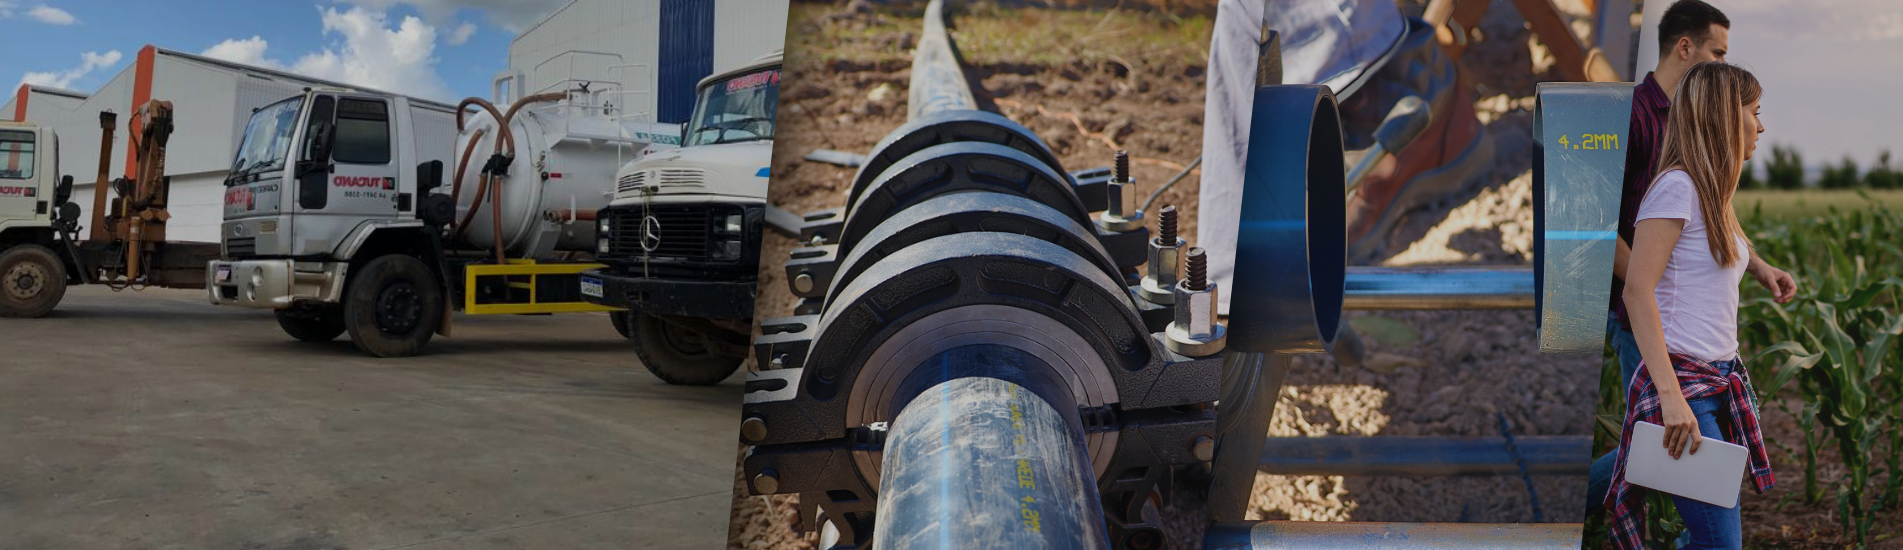
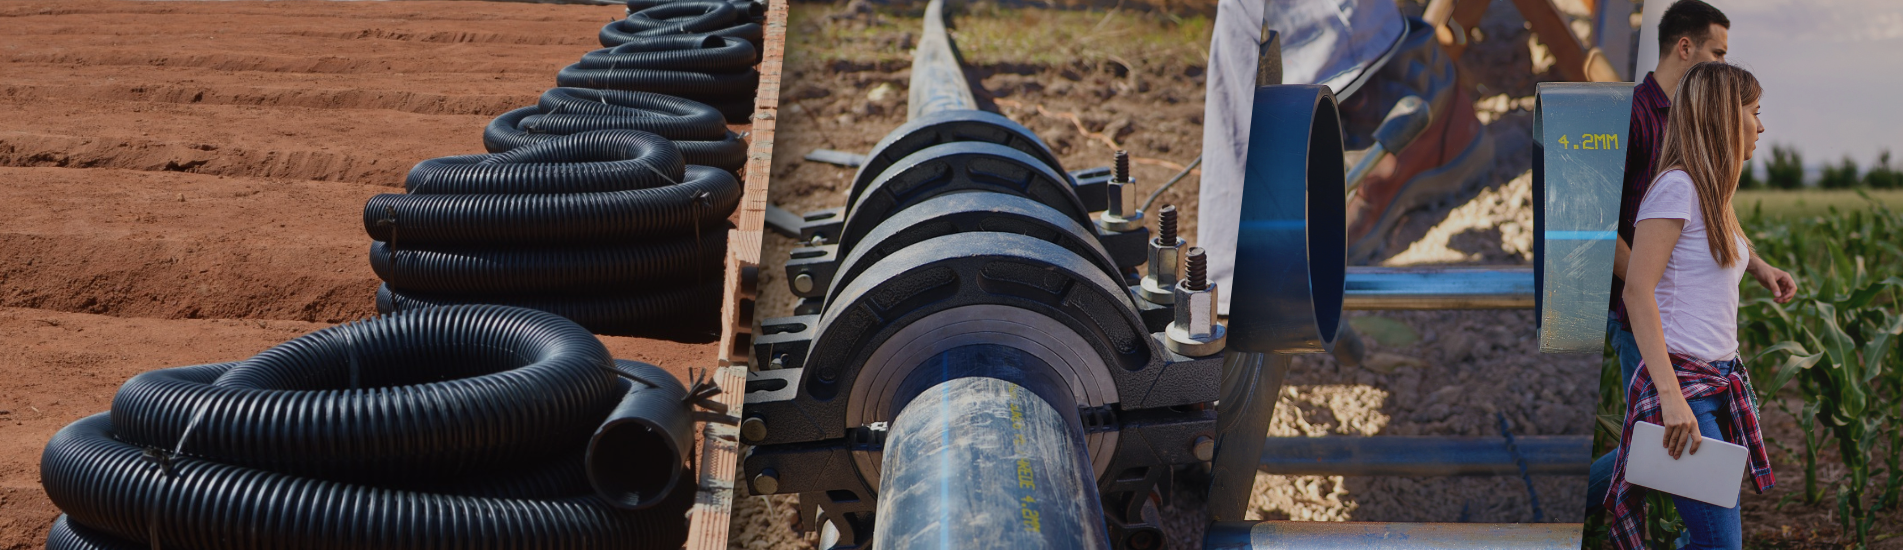
Atualizações Finalizadas.

diff --git a/src/app/servico/servico.component.html b/src/app/servico/servico.component.html
@@ -52,15 +52,26 @@
                 <p class="description2">
                     Acompanhamento na Obra.
                 </p>
-                <a target="_blank"
-                    href="https://api.whatsapp.com/send/?phone=5564992308541&text&type=phone_number&app_absent=0">
-                    <button class="botao-contrate2" type="button">CONTRATE</button>
-                </a>
+                <div class="solda-but-container">
+                    <a target="_blank"
+                        href="https://api.whatsapp.com/send/?phone=5564992308541&text&type=phone_number&app_absent=0">
+                        <button class="botao-contrate2" type="button">CONTRATE</button>
+                    </a>
+                    <div class="photo-gallery">
+                        <div class="photo" *ngFor="let photo of photosAcompanhamento" (click)="navigateToDetails(photo)">
+                            <img src="{{ photo.imageUrl }}" alt="{{ photo.caption }}">
+                            <!-- <div class="caption">{{ photo.caption }}</div> -->
+                            <div class="info-box" *ngIf="photo.showInfo">
+                                {{ photo.info }}
+                            </div>
+                        </div>
+                    </div>
+                </div>
             </div>
         </div>
     </mat-card>
 
-    <mat-card class="card-container">
+    <!-- <mat-card class="card-container">
         <div class="content-container">
             <div class="text-container">
                 <h2 class="title">Serviço de Limpa Fossa</h2>
@@ -101,11 +112,11 @@
             </div>
         </div>
     </mat-card>
-</div>
+</div> -->
 
-<div class="galery-open" *ngIf="imgClick">
-    <img src="{{ imgUrl }}">
-    <button mat-mini-fab color="warn" (click)="imgClick = false">
-        <mat-icon>close</mat-icon>
-    </button>
-</div>
+    <div class="galery-open" *ngIf="imgClick">
+        <img src="{{ imgUrl }}">
+        <button mat-mini-fab color="warn" (click)="imgClick = false">
+            <mat-icon>close</mat-icon>
+        </button>
+    </div>

diff --git a/src/app/institucional/institucional.component.ts b/src/app/institucional/institucional.component.ts
@@ -29,17 +29,44 @@ export class InstitucionalComponent implements OnInit {
       id: 3,
       imageUrl: 'assets/images/institucional/galeria/foto3.JPG',
       caption: 'Quadra de Areia',
-      info: 'Sistema de drenagem feito na quadra de areia da Thai Fit.',
+      info: 'Sistema de drenagem feito em quadra de areia.',
       showInfo: true
     },
     {
       id: 4,
-      imageUrl: 'assets/images/institucional/galeria/foto4.JPG',
+      imageUrl: 'assets/images/institucional/galeria/foto4.jpeg',
       caption: 'Nosso Escritório',
       info: 'Informações sobre a Foto 2',
       showInfo: false
     },
-    // Adicione mais fotos aqui
+    {
+      id: 5,
+      imageUrl: 'assets/images/institucional/galeria/foto5.jpeg',
+      caption: 'Nosso Escritório',
+      info: 'Informações sobre a Foto 2',
+      showInfo: false
+    },
+    {
+      id: 6,
+      imageUrl: 'assets/images/institucional/galeria/foto6.jpeg',
+      caption: 'Nosso Escritório',
+      info: 'Informações sobre a Foto 2',
+      showInfo: false
+    },
+    {
+      id: 7,
+      imageUrl: 'assets/images/institucional/galeria/foto7.jpeg',
+      caption: 'Nosso Escritório',
+      info: 'Informações sobre a Foto 2',
+      showInfo: false
+    },
+    {
+      id: 8,
+      imageUrl: 'assets/images/institucional/galeria/foto8.jpeg',
+      caption: 'Nosso Escritório',
+      info: 'Informações sobre a Foto 2',
+      showInfo: false
+    },
   ];
 
   constructor() { }

diff --git a/src/app/servico/servico.component.ts b/src/app/servico/servico.component.ts
@@ -31,8 +31,31 @@ export class ServicoComponent {
       caption: 'Quadra de Areia',
       info: 'Soldagem concluída.',
       showInfo: true
-    },
+    }
+  ];
 
+  photosAcompanhamento = [
+    {
+      id: 1,
+      imageUrl: 'assets/images/servicos/IMG_4.jpg',
+      caption: 'Entregas',
+      info: 'Informações sobre a Foto 1',
+      showInfo: false
+    },
+    {
+      id: 2,
+      imageUrl: 'assets/images/institucional/galeria/foto5.jpeg',
+      caption: 'Drenagem',
+      info: 'Informações sobre a Foto 2',
+      showInfo: false
+    },
+    {
+      id: 3,
+      imageUrl: 'assets/images/institucional/galeria/foto6.jpeg',
+      caption: 'Quadra de Areia',
+      info: 'Soldagem concluída.',
+      showInfo: false
+    }
   ];
 
   ngOnInit(): void {

diff --git a/src/app/institucional/institucional.component.scss b/src/app/institucional/institucional.component.scss
@@ -7,7 +7,7 @@ body {
 	display: grid;
 	color: white;
 	grid-template-columns: 50% 50%;
-	grid-template-rows: 70px 470px 50px 150px 50px 150px 50px 500px 390px 281px;
+	grid-template-rows: 70px 470px 50px 150px 50px 150px 50px 700px 390px 281px;
 	grid-template-areas: "css-institucional css-institucional" "css-video css-video" "css-valores css-valores" "css-desc-valores css-desc-valores"
 		"css-sustentabilidade css-sustentabilidade" "css-desc1-sustentabilidade css-desc2-sustentabilidade"
 		"css-info css-info"
@@ -254,7 +254,8 @@ img {
 }
 
 .gallery-container {
-    margin-top: 300px; /* Espaço acima da div */
+    margin-top: 280px; /* Espaço acima da div */
+	padding: 10px;
 	grid-area: gallery-container;
 	text-align: center;
 }

diff --git a/src/app/produtos/tucanodreno/tucanodreno.component.ts b/src/app/produtos/tucanodreno/tucanodreno.component.ts
@@ -32,6 +32,11 @@ export class TucanodrenoComponent implements OnInit {
       imageUrl: 'assets/images/acessorios/cruzeta.jpg'
     },
     {
+      title: 'Junção de Emenda em Y Duplo',
+      description: 'Conexão utilizada para dividir as ramificações dos tubos de drenagem em formato de Y duplo.',
+      imageUrl: 'assets/images/thumb-yuplo.png'
+    },
+    {
       title: 'Junção de Emenda em Y',
       description: 'Conexão utilizada para dividir as ramificações dos tubos de drenagem em formato de Y.',
       imageUrl: 'assets/images/acessorios/juncao.jpg'

diff --git a/src/app/institucional/institucional.component.html b/src/app/institucional/institucional.component.html
@@ -43,7 +43,7 @@
     <div class="photo-gallery">
       <div class="photo" *ngFor="let photo of photos">
         <img src="{{ photo.imageUrl }}" alt="{{ photo.caption }}" (click)="navigateToDetails(photo)">
-        <div class="caption">{{ photo.caption }}</div>
+        <!-- <div class="caption">{{ photo.caption }}</div> -->
         <div class="info-box" *ngIf="photo.showInfo">
           {{ photo.info }}
         </div>

diff --git a/src/app/home/home.component.ts b/src/app/home/home.component.ts
@@ -86,8 +86,8 @@ export class HomeComponent implements OnInit, OnDestroy {
     },
     {
       id: 1,
-      imageUrl: 'assets/images/fossa.jpeg',
-      caption: 'Limpa fossa',
+      imageUrl: 'assets/images/home/thumb-acompanhamento.JPG',
+      caption: 'Acompanhamento Técnico',
       info: 'Informações sobre a Foto 2',
       showInfo: false
     },

diff --git a/src/app/produtos/tucanoliso/tucanoliso.component.ts b/src/app/produtos/tucanoliso/tucanoliso.component.ts
@@ -63,7 +63,7 @@ export class TucanolisoComponent implements OnInit {
     },
     {
       imageUrl: 'assets/images/chorume.jpeg',
-      caption: 'Gerenciamento de Chorume 75mm - 315mm',
+      caption: 'Aterro Sanitário 75mm - 315mm',
       info: 'Informações sobre a Foto 2',
       showInfo: false
     },

diff --git a/src/app/servico/servico.component.scss b/src/app/servico/servico.component.scss
@@ -207,6 +207,7 @@
 	height: 720px; /* Define a altura da imagem */
 	position: relative; /* Permite o ajuste do z-index para a imagem */
 	z-index: 1001; /* Coloca a imagem acima do fundo escuro do modal */
+  border-radius: 8px;
 }
 
 .galery-open button {

diff --git a/src/app/produtos/geotextil/geotextil.component.scss b/src/app/produtos/geotextil/geotextil.component.scss
@@ -272,11 +272,8 @@
 
   .tabela{
     text-align: center;
+    // background-color: white;
   }
-
-  // .tabela {
-  //   background-color: white;
-  // }
 
   .tabela img {
     width: 1650px;
